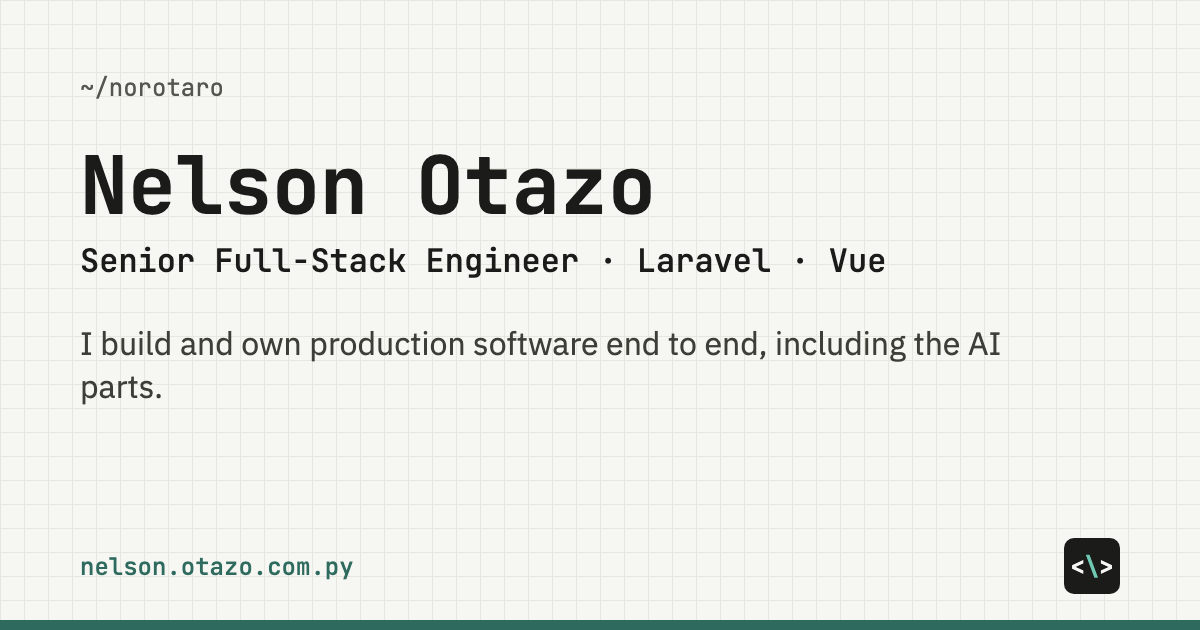
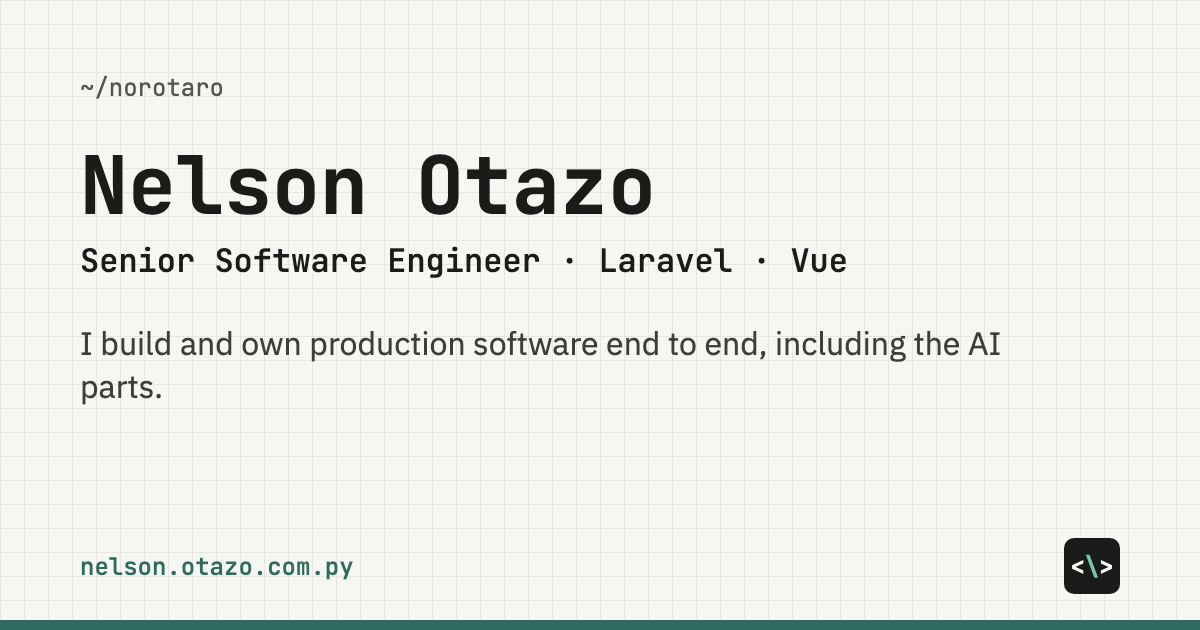
feat(home): present the headline as Senior Software Engineer
Updates the English and Spanish home titles, descriptions and headline, and re-renders the social preview image.

Changed region(s): [[0.185, 0.3921, 0.74, 0.4524]]

diff --git a/src/i18n/ui.ts b/src/i18n/ui.ts
@@ -10,7 +10,7 @@ export const ui = {
     'footer.source': 'source',
     'lang.switch': 'Leer en español',
     'home.whoami': 'husband, father & developer',
-    'home.headline': 'Senior Full-Stack Engineer · Laravel · Vue',
+    'home.headline': 'Senior Software Engineer · Laravel · Vue',
     'home.positioning': 'I build and own production software end to end, including the AI parts.',
     'home.context': '15+ years shipping web products. Based in Asunción, Paraguay, working remotely with US teams.',
     'work.label': '// selected work',
@@ -26,7 +26,7 @@ export const ui = {
     'footer.source': 'código',
     'lang.switch': 'Read in English',
     'home.whoami': 'esposo, padre y desarrollador',
-    'home.headline': 'Ingeniero full-stack senior · Laravel · Vue',
+    'home.headline': 'Ingeniero de software senior · Laravel · Vue',
     'home.positioning': 'Construyo y me hago cargo de software en producción de punta a punta, incluidas las partes de IA.',
     'home.context':
       'Más de 15 años creando productos web. Vivo en Asunción, Paraguay, y trabajo de forma remota con equipos de Estados Unidos.',
@@ -50,6 +50,7 @@ export const NAV: Record<Locale, NavItem[]> = {
   en: [
     { href: '/#work', label: '/work' },
     { href: '/experience', label: '/experience' },
+    { href: '/cv', label: '/cv' },
     { href: '/open-source', label: '/open-source' },
     { href: '/blog/page/1', label: '/blog' },
   ],

diff --git a/scripts/og-image.html b/scripts/og-image.html
@@ -31,7 +31,7 @@
 <div class="og">
   <p class="mono handle">~/norotaro</p>
   <h1 class="mono">Nelson Otazo</h1>
-  <p class="mono headline">Senior Full-Stack Engineer · Laravel · Vue</p>
+  <p class="mono headline">Senior Software Engineer · Laravel · Vue</p>
   <p class="positioning">I build and own production software end to end, including the AI parts.</p>
   <div class="mono bottom">
     <span class="domain">nelson.otazo.com.py</span>
